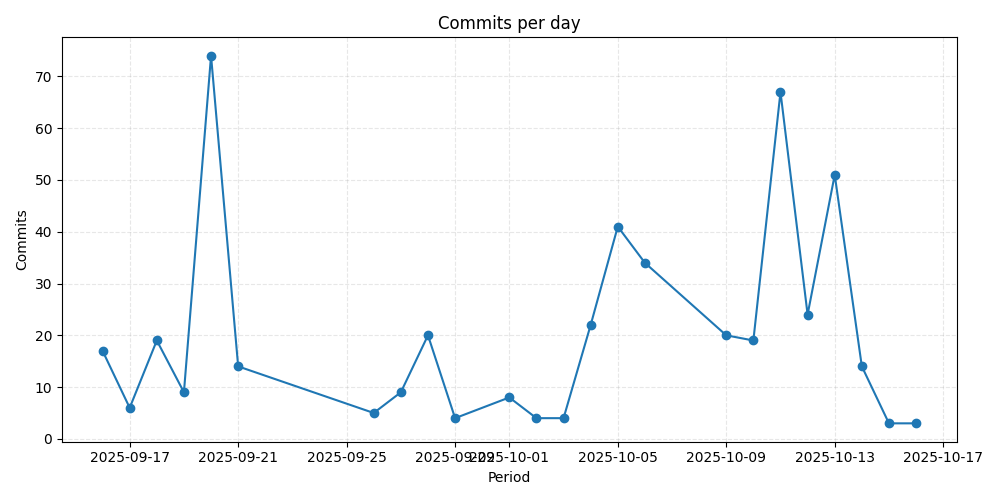
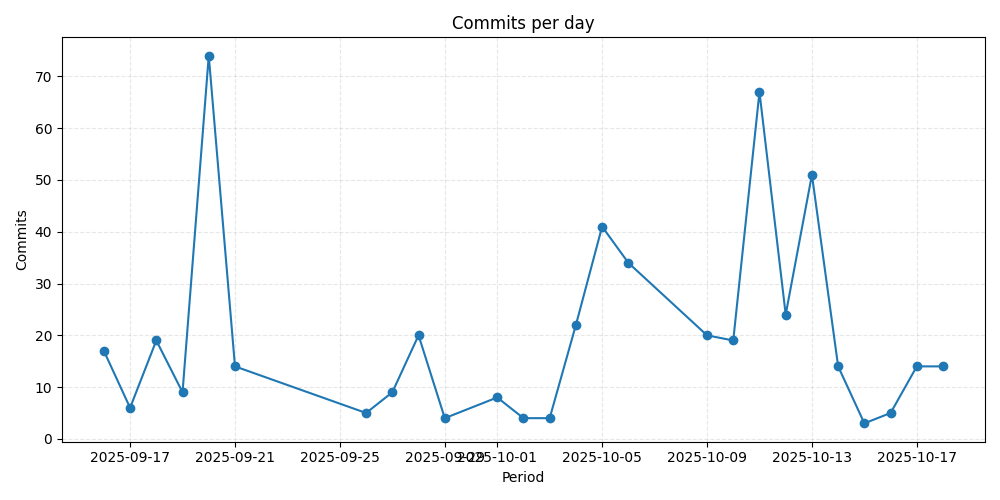
chore: refresh repository metrics

diff --git a/www/metrics/metrics.html b/www/metrics/metrics.html
@@ -6,7 +6,7 @@
 </head>
 <body>
 <h1>Repository metrics for <code>dsainz3/gate-hub</code></h1>
-<p><em>Generated 2025-10-17T06:17:51.340491+00:00Z</em></p>
+<p><em>Generated 2025-10-18T06:16:12.173520+00:00Z</em></p>
 <h2>Highlights</h2>
 <table>
 <thead>
@@ -20,9 +20,9 @@
 <tbody>
 <tr>
 <td>Commits</td>
-<td style="text-align: right;">1 (-50.0%)</td>
-<td style="text-align: right;">165 (+24.1%)</td>
-<td style="text-align: right;">470 (+2138.1%)</td>
+<td style="text-align: right;">1 (-96.3%)</td>
+<td style="text-align: right;">123 (-32.8%)</td>
+<td style="text-align: right;">478 (+1011.6%)</td>
 </tr>
 </tbody>
 </table>
@@ -35,7 +35,7 @@
 <ul>
 <li>Median time to merge: <code>0.00</code> days</li>
 <li>Average files changed per PR: <code>0.0</code></li>
-<li>Lines added vs deleted: <code>+728,960</code> / <code>-452,007</code></li>
+<li>Lines added vs deleted: <code>+735,624</code> / <code>-455,646</code></li>
 </ul>
 </body>
 </html>

diff --git a/www/metrics/summary.html b/www/metrics/summary.html
@@ -13,7 +13,7 @@
   </head>
   <body>
     <table>
-      <tr><th>Daily commits</th><td>1 (-50.0%)</td></tr><tr><th>Weekly commits</th><td>165 (+24.1%)</td></tr><tr><th>Monthly commits</th><td>470 (+2138.1%)</td></tr><tr><th>Median PR merge time</th><td>0.00 days</td></tr>
+      <tr><th>Daily commits</th><td>1 (-96.3%)</td></tr><tr><th>Weekly commits</th><td>123 (-32.8%)</td></tr><tr><th>Monthly commits</th><td>478 (+1011.6%)</td></tr><tr><th>Median PR merge time</th><td>0.00 days</td></tr>
     </table>
   </body>
 </html>

diff --git a/www/metrics/metrics.md b/www/metrics/metrics.md
@@ -1,12 +1,12 @@
 # Repository metrics for `dsainz3/gate-hub`
 
-_Generated 2025-10-17T06:17:51.340491+00:00Z_
+_Generated 2025-10-18T06:16:12.173520+00:00Z_
 
 ## Highlights
 
 | Metric | Daily | Weekly | Monthly |
 | --- | ---: | ---: | ---: |
-| Commits | 1 (-50.0%) | 165 (+24.1%) | 470 (+2138.1%) |
+| Commits | 1 (-96.3%) | 123 (-32.8%) | 478 (+1011.6%) |
 
 ## Charts
 
@@ -22,4 +22,4 @@ _Generated 2025-10-17T06:17:51.340491+00:00Z_
 
 * Median time to merge: `0.00` days
 * Average files changed per PR: `0.0`
-* Lines added vs deleted: `+728,960` / `-452,007`
+* Lines added vs deleted: `+735,624` / `-455,646`

diff --git a/README.md b/README.md
@@ -15,11 +15,11 @@
 
 <!-- METRICS:START -->
 ## Repository health snapshot
-_Updated 2025-10-17T06:17:51.340491+00:00Z_
+_Updated 2025-10-18T06:16:12.173520+00:00Z_
 
-- Daily commits: **1** (-50.0%)
-- Weekly commits: **165** (+24.1%)
-- Monthly commits: **470** (+2138.1%)
+- Daily commits: **1** (-96.3%)
+- Weekly commits: **123** (-32.8%)
+- Monthly commits: **478** (+1011.6%)
 - Median PR merge time: **0.00 days**
 <!-- METRICS:END -->
 
